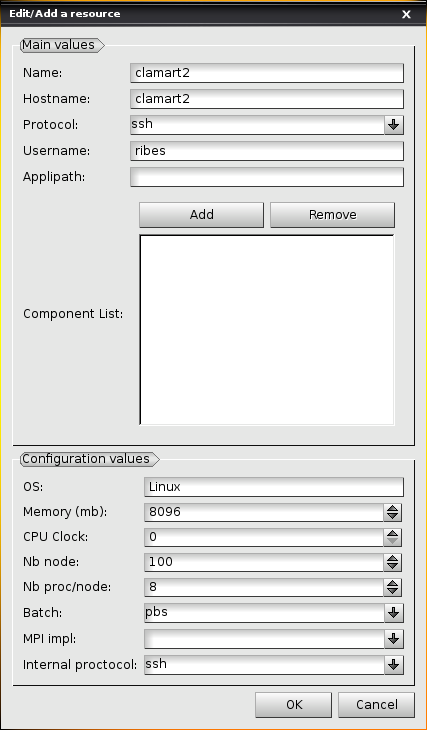
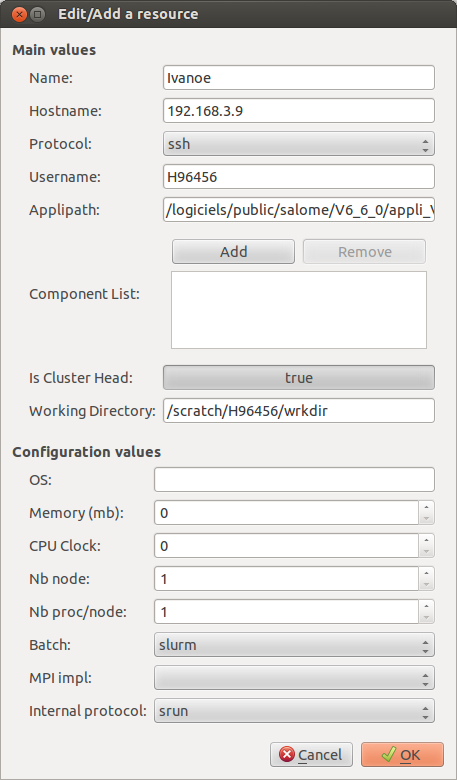
Merge from V6_main 13/12/2012

Changed region(s): [[0.0, 0.0603, 1.0, 1.0], [0.0, 0.0, 1.0, 0.3014], [0.2436, 0.4219, 0.274, 0.4521]]

diff --git a/doc/resource.rst b/doc/resource.rst
@@ -17,13 +17,31 @@ A resource contains three different kinds of information:
 A resource's name could be different from the computer name since 
 different SALOME installation could coexist in the computer.
 
+Types and usage of SALOME resources
+-----------------------------------
+
+In SALOME, resources can be used in two different ways:
+
+- Resources can be used to launch containers, either semi-automatically with
+  YACS or directly by calling the method GiveContainer of the Container
+  Manager (service provided by the KERNEL).
+- Resources can be used to launch jobs, either with the JOBMANAGER module or
+  with the underlying Launcher service (provided by the KERNEL).
+
+Those two kinds of resources are both managed by the Resource Manager (KERNEL
+service). They can both be created and edited with the resource management
+interface of the JOBMANAGER. This is why some informations describing the
+resources (e.g. CPU clock) are in fact not used at all by the JOBMANAGER to
+launch jobs. If you just want to create a resource to launch jobs, you can
+safely ignore those parameters.
+
 Physical description of the computer
 ------------------------------------
 
 A resource contains a physical description of the computer.
-These informations are used by the resource manager (service provided
-by the KERNEL) to choose and use a resource when a container (in YACS)
-or a job (in JOBMANAGER) has to be launched.
+These informations are used by the Resource Manager to choose and use a
+resource when a container (in YACS) or a job (in JOBMANAGER) has to be
+launched.
 
 The description of each attribute is given in the table below. 
 
@@ -32,21 +50,29 @@ The description of each attribute is given in the table below.
 ========================== ================ =============================================================
 **Attribute**              **Mandatory**    **Description**
 ========================== ================ =============================================================
-**hostname**               Yes              It's the network name of the computer. If the computer is a 
-                                            cluster, you have to give the frontal node name.
+**hostname**               Yes              Network name of the computer. If the computer is a cluster,
+                                            you have to give the head node name.
 **protocol**               Yes              Network protocol to use for creating connections 
                                             (ssh or rsh).
-**username**               Yes              User name to use for creating connections.
-**batch**                  Yes              Type of batch system installed in the resource. Use *ssh* if
+**username**               Yes              User login on the computer.
+**batch**                  Yes              Type of batch manager installed in the resource. Use *ssh* if
                                             the resource is a single computer.
-**iprotocol**              Yes              Internal protocol to use on a cluster (ssh, rsh or srun).
+**iprotocol**              Yes              Internal protocol to use on a cluster (i.e. the command used
+                                            to launch processes on other nodes of the cluster).
 **mpiImpl**                No               MPI implementation to use.
-
-**OS**                     No               It's the operating system name, e.g.: Linux, Windows.
-**nb_node**                No               It's the amount of node of the computer.
-**nb_proc_per_node**       No               It's the amount or processor or core in each node.
-**mem_mb**                 No               It's the amount of memory in megabytes per node.
-**cpu_clock**              No               It's the frequency in gigahertz of the computer's processors.
+**OS**                     No               Operating system name, e.g.: Linux, Windows (not used by
+                                            JOBMANAGER)
+**nb_node**                No               Number of nodes in the computer (not used by JOBMANAGER)
+**nb_proc_per_node**       No               Number of processors or cores in each node (only used with
+                                            PBS batch manager)
+**mem_mb**                 No               Memory per node in megabytes (not used by JOBMANAGER)
+**cpu_clock**              No               Clock rate in gigahertz of the computer's processor(s) (not
+                                            used by JOBMANAGER)
+**Is Cluster Head**        Yes              Indicate if the resource is a cluster managed by a batch
+                                            manager
+**Working Directory**      No               Base working directory for the resource. The working
+                                            directories for the jobs will by default be created as
+                                            subdirectories of this directory.
 ========================== ================ =============================================================
 
 SALOME installation description
@@ -60,10 +86,9 @@ The description of each attribute is given in the table below.
 ========================== =============================================================
 **Attribute**              **Description**
 ========================== =============================================================
-**applipath**              It's the directory of the SALOME application to use into the 
-                           resource.
-**componentList**          It's the SALOME component list available in the SALOME 
-                           application.
+**applipath**              Directory of the SALOME application to use on the resource
+**componentList**          List of the SALOME components available in the SALOME 
+                           application (not used by JOBMANAGER)
 ========================== =============================================================
 
 Where is the resource file?
@@ -135,6 +160,7 @@ To launch a **command** job you need to fill the following attributes:
 - **protocol** = *ssh*
 - **username**
 - **batch** = *ssh*
+- **Is Cluster Head** = *false*
 
 **Warning:** You have to configure ssh for allowing ssh commands without asking 
 interactive password (RSA or DSA keys).
@@ -155,7 +181,8 @@ To launch a **command** job you need to fill the following attributes:
 - **username**
 - **batch**
 - **iprotocol**
-- **nb_proc_per_node**
+- **nb_proc_per_node** (only with PBS batch manager)
+- **Is Cluster Head** = *true*
 
 **Warning:** You have to configure ssh for allowing ssh commands without asking 
 interactive password (RSA or DSA keys) between your computer and the cluster and between
@@ -164,4 +191,3 @@ the cluster's nodes.
 To launch a **SALOME** command job you also need to fill the following attributes:
 
 - **applipath**
-

diff --git a/doc/jobmanager_gui.rst b/doc/jobmanager_gui.rst
@@ -78,9 +78,23 @@ The second page (see :ref:`figure_jobmanager_job_workflow_2`) permits to add two
 
   **Create wizard page 2**
 
-The third page (see :ref:`figure_jobmanager_job_workflow_3`) permits to define the batch parameters related
+The third page (see :ref:`figure_jobmanager_job_workflow_5`) permits to choose the resource where the job 
+will be executed. You can also define the batch queue that you want to use.
+
+.. _figure_jobmanager_job_workflow_5:
+
+.. figure:: images/jobmanager_job_workflow_5.png
+  :align: center
+
+  **Create wizard page 3**
+
+The fourth page (see :ref:`figure_jobmanager_job_workflow_3`) permits to define the batch parameters related
 to the job. It's mandatory to define the *Remote work directory* that is the directory where the job will be executed.
-Input files defined in page 4 will be copied in this directory. You also have to define the maximum duration,
+Note that if a work directory is defined for the selected resource, the work directory for the job will be
+created as a subdirectory of the resource work directory by default. The name of this subdirectory will
+contain the current date and time. Of course, you can override this default value.
+Input files defined in page 4 will be copied in this work directory. You also have to define the maximum duration
+(set 0 hours and 0 minutes to use the default value for the queue),
 the amount of memory needed and the number of processors/cores of the job.
 
 .. _figure_jobmanager_job_workflow_3:
@@ -88,9 +102,9 @@ the amount of memory needed and the number of processors/cores of the job.
 .. figure:: images/jobmanager_job_workflow_3.png
   :align: center
 
-  **Create wizard page 3**
+  **Create wizard page 4**
 
-The fourth page (see :ref:`figure_jobmanager_job_workflow_4`) permits to add the input and output files. 
+The fifth page (see :ref:`figure_jobmanager_job_workflow_4`) permits to add the input and output files. 
 Input files are files located into the user
 computer that have to be transferred into the execution resource. In this page, you could also define the result 
 directory where job's results and logs will be copied.
@@ -98,16 +112,6 @@ directory where job's results and logs will be copied.
 .. _figure_jobmanager_job_workflow_4:
 
 .. figure:: images/jobmanager_job_workflow_4.png
-  :align: center
-
-  **Create wizard page 4**
-
-The fifth page (see :ref:`figure_jobmanager_job_workflow_5`) permits to choose the resource where the job 
-will be executed. You can also define the batch queue that you want to use.
-
-.. _figure_jobmanager_job_workflow_5:
-
-.. figure:: images/jobmanager_job_workflow_5.png
   :align: center
 
   **Create wizard page 5**
